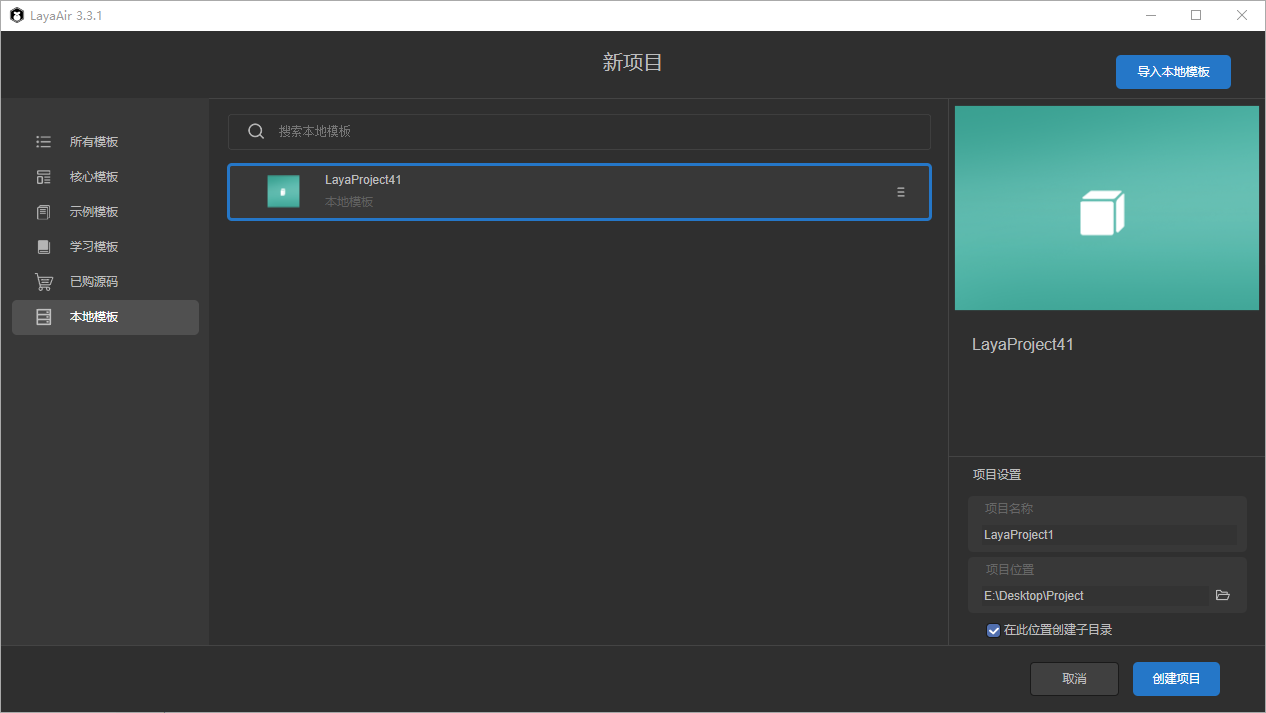
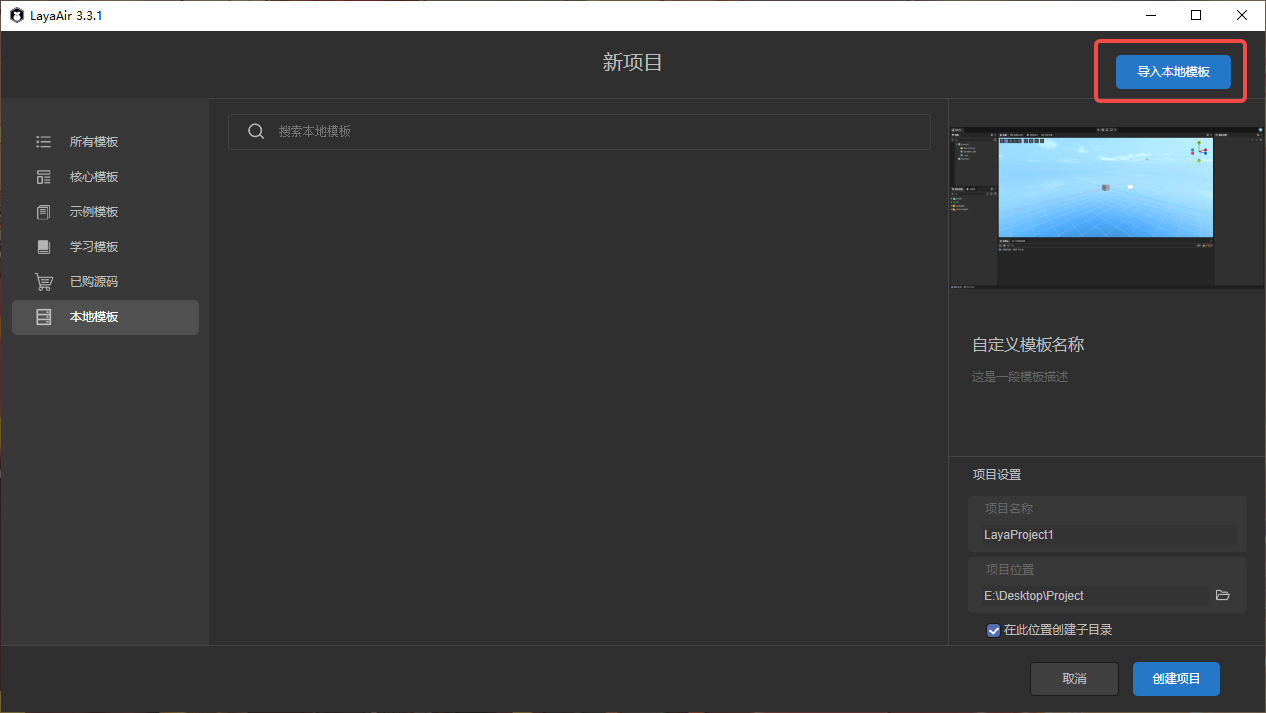
update 创建新项目

diff --git a/basics/IDE/createNewProject/readme.md b/basics/IDE/createNewProject/readme.md
@@ -116,7 +116,7 @@
 
 ![2-5-2](img/2-5-2.png)
 
-模板成功导入后开发者就可以使用这个模板创建项目了，具体的用法和其它模板一样，这里就不再重复。
+模板成功导入后开发者就可以使用这个模板创建项目了，本地模板的具体用法和其它模板一样，这里就不再重复。
 
 
 
